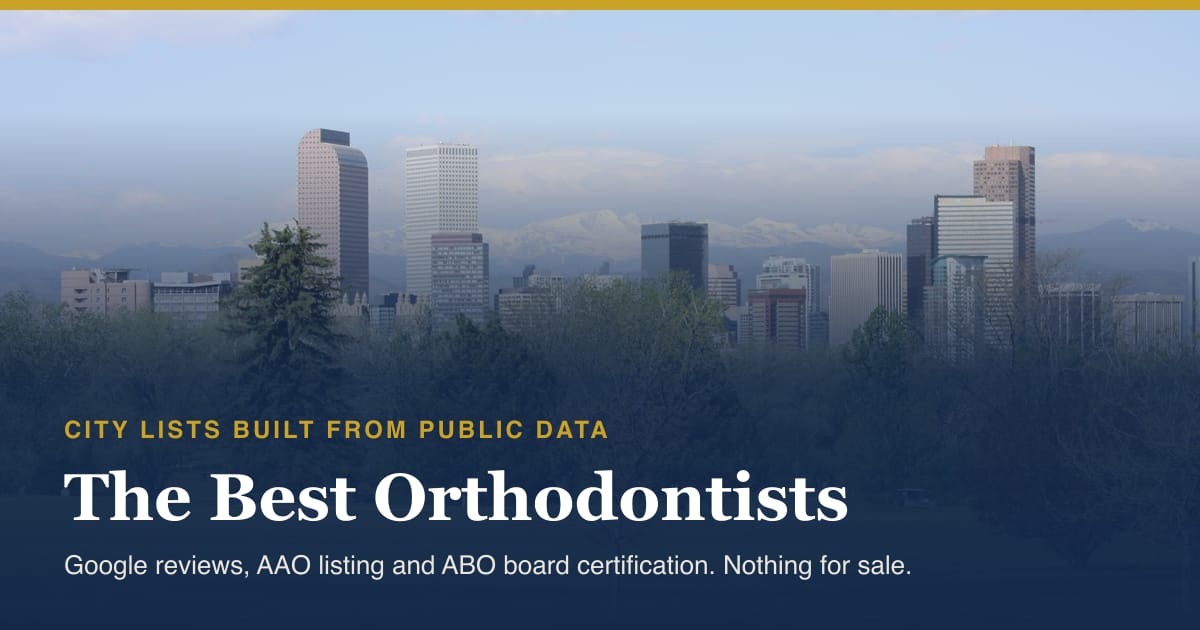
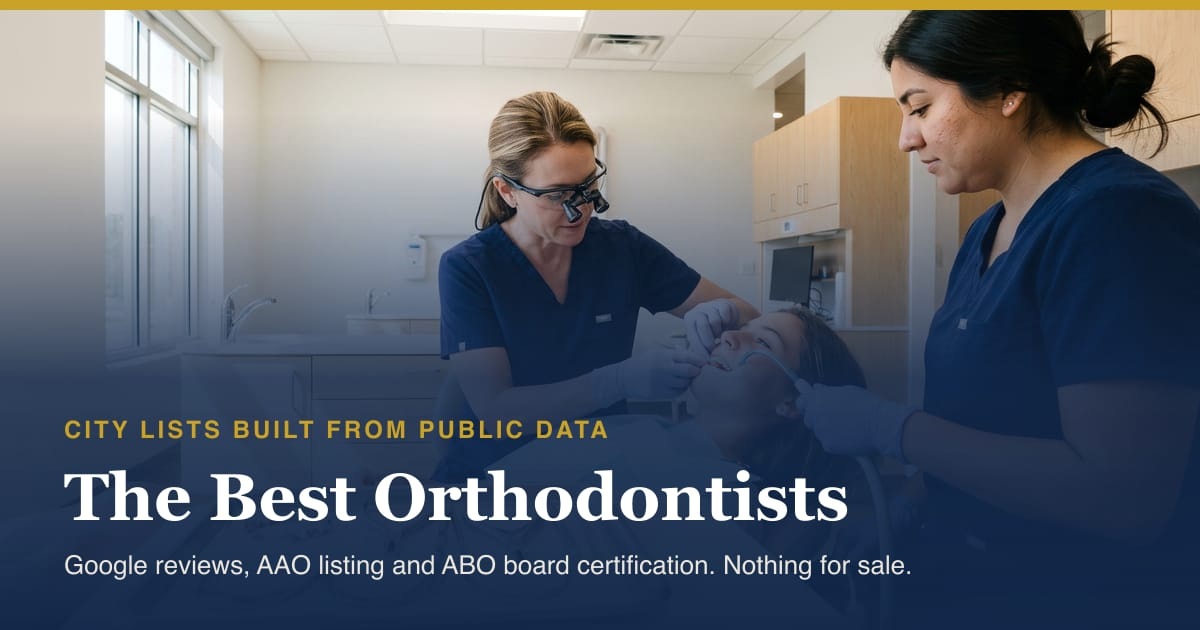
Add generated orthodontic scenes to the home page
Wide hero of a treatment bay and a team shot under the badge section,
generated on Higgsfield (Nano Banana Pro request). Home social preview
now uses the hero. Source files and job ids are kept outside the site.

diff --git a/index.html b/index.html
@@ -55,6 +55,7 @@ figcaption{font-size:12px;color:var(--muted);margin:6px 2px 0}figcaption a{color
 
 <h1>The Best Orthodontists</h1>
 <p class="lede">City lists of orthodontic practices, built from public data and nothing else. No practice pays to be listed and none can.</p>
+<figure class="hero"><img src="/img/home-hero-1600.webp" srcset="/img/home-hero-800.webp 800w, /img/home-hero-1600.webp 1600w, /img/home-hero-2400.webp 2400w" sizes="(max-width: 900px) 100vw, 860px" alt="An orthodontist in loupes adjusts a patient&#39;s braces while an assistant holds suction, instruments on a tray in the foreground" width="1600" height="700" fetchpriority="high"></figure>
 <h2>Lists</h2>
 <ul class="cities"><li><a href="/denver-co/"><img src="/img/denver-co-800.webp" alt="Denver skyline with the Front Range behind it, seen from City Park" width="800" height="350"><span class="cap">Best orthodontists in Denver<small>Colorado, 2026 list</small></span></a></li><li><a href="/albuquerque-nm/"><img src="/img/albuquerque-nm-800.webp" alt="The Sandia Mountains at sunset on the east edge of Albuquerque" width="800" height="350"><span class="cap">Best orthodontists in Albuquerque<small>New Mexico, 2026 list</small></span></a></li><li><a href="/chesapeake-va/"><img src="/img/chesapeake-va-800.webp" alt="The Great Bridge drawbridge open on the Intracoastal Waterway in Chesapeake" width="800" height="350"><span class="cap">Best orthodontists in Chesapeake<small>Virginia, 2026 list</small></span></a></li></ul>
 <p class="meta">Photos via Wikimedia Commons: Denver by David Herrera (<a href="https://creativecommons.org/licenses/by/2.0" rel="license nofollow">CC BY 2.0</a>), Albuquerque by BrandonStephenson (public domain), Chesapeake by U.S. Army Corps of Engineers Norfolk District (public domain).</p>
@@ -62,6 +63,7 @@ figcaption{font-size:12px;color:var(--muted);margin:6px 2px 0}figcaption a{color
 <p>Each list takes every orthodontic practice inside the city, scores it on its Google rating and review count (weighted so a handful of reviews cannot beat hundreds), and adds credit for being listed in the American Association of Orthodontists locator and for having an orthodontist certified by the American Board of Orthodontics at the practice. The top ten make the list. <a href="/methodology/">Full method and sources</a>.</p>
 <h2>For listed practices</h2>
 <p>Every listed practice gets a free badge for its website. The embed code is on the practice's profile page. No account, no payment, no catch. If something on a profile is wrong, <a href="/corrections/">say so</a> and it gets fixed.</p>
+<figure class="banner"><img src="/img/home-team-1600.webp" srcset="/img/home-team-800.webp 800w, /img/home-team-1600.webp 1600w, /img/home-team-2400.webp 2400w" sizes="(max-width: 900px) 100vw, 860px" alt="A patient checks new braces in a hand mirror while the orthodontist and assistant stand beside the chair" width="1600" height="700" loading="lazy"></figure>
 </main>
 <footer><div class="in">The Best Orthodontists is a CCA Marketing project. Lists are built from public data: Google ratings and review counts, the American Association of Orthodontists locator and the American Board of Orthodontics locator. Not affiliated with the AAO, the ABO or Google. No practice pays to be listed. <a href="/corrections/">Corrections and removals</a>.</div></footer>
 </body>
